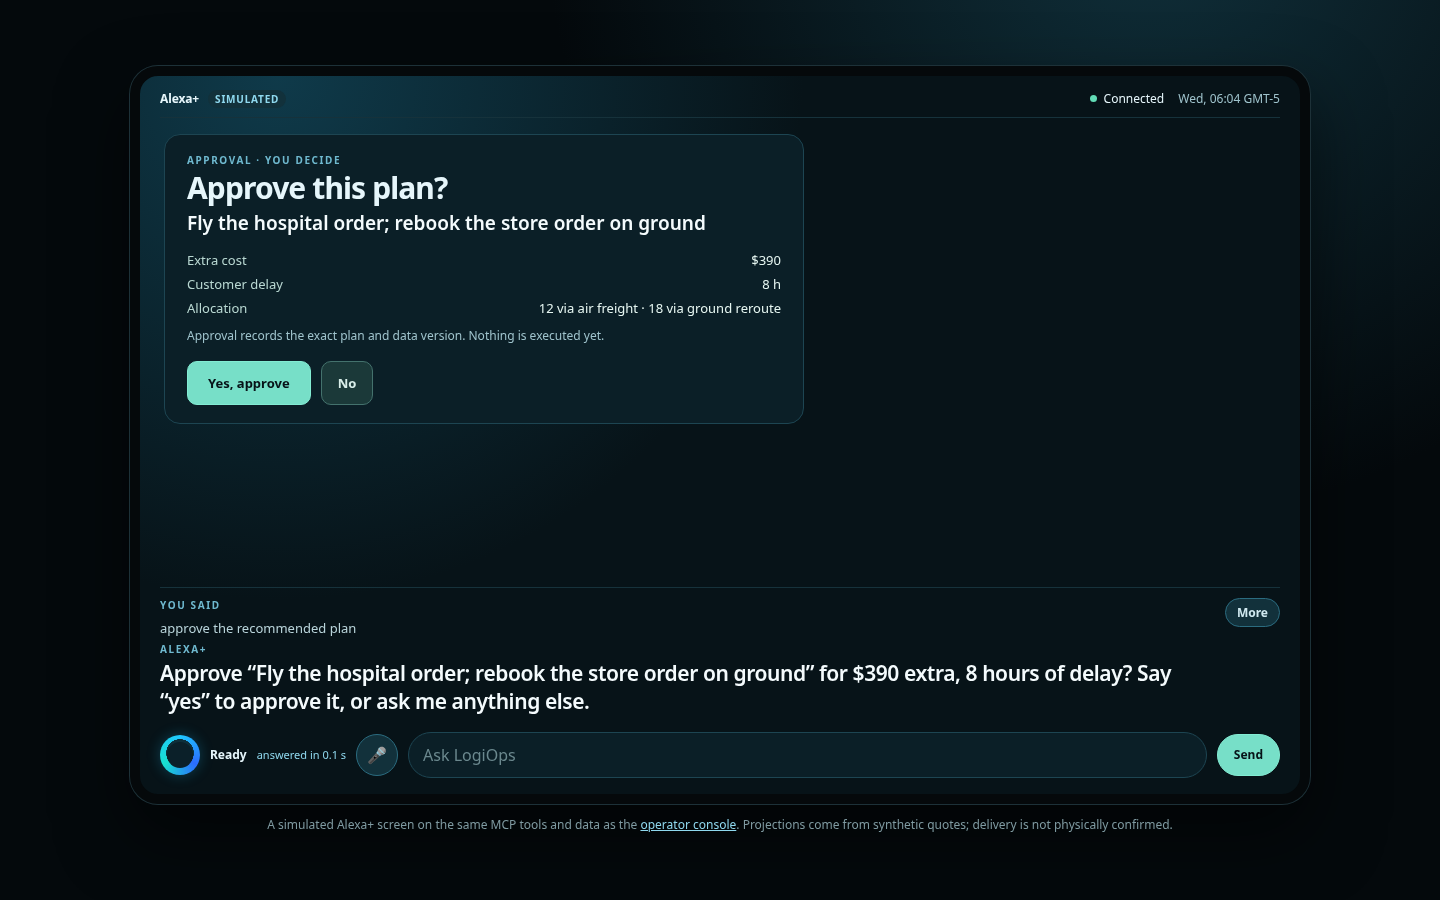
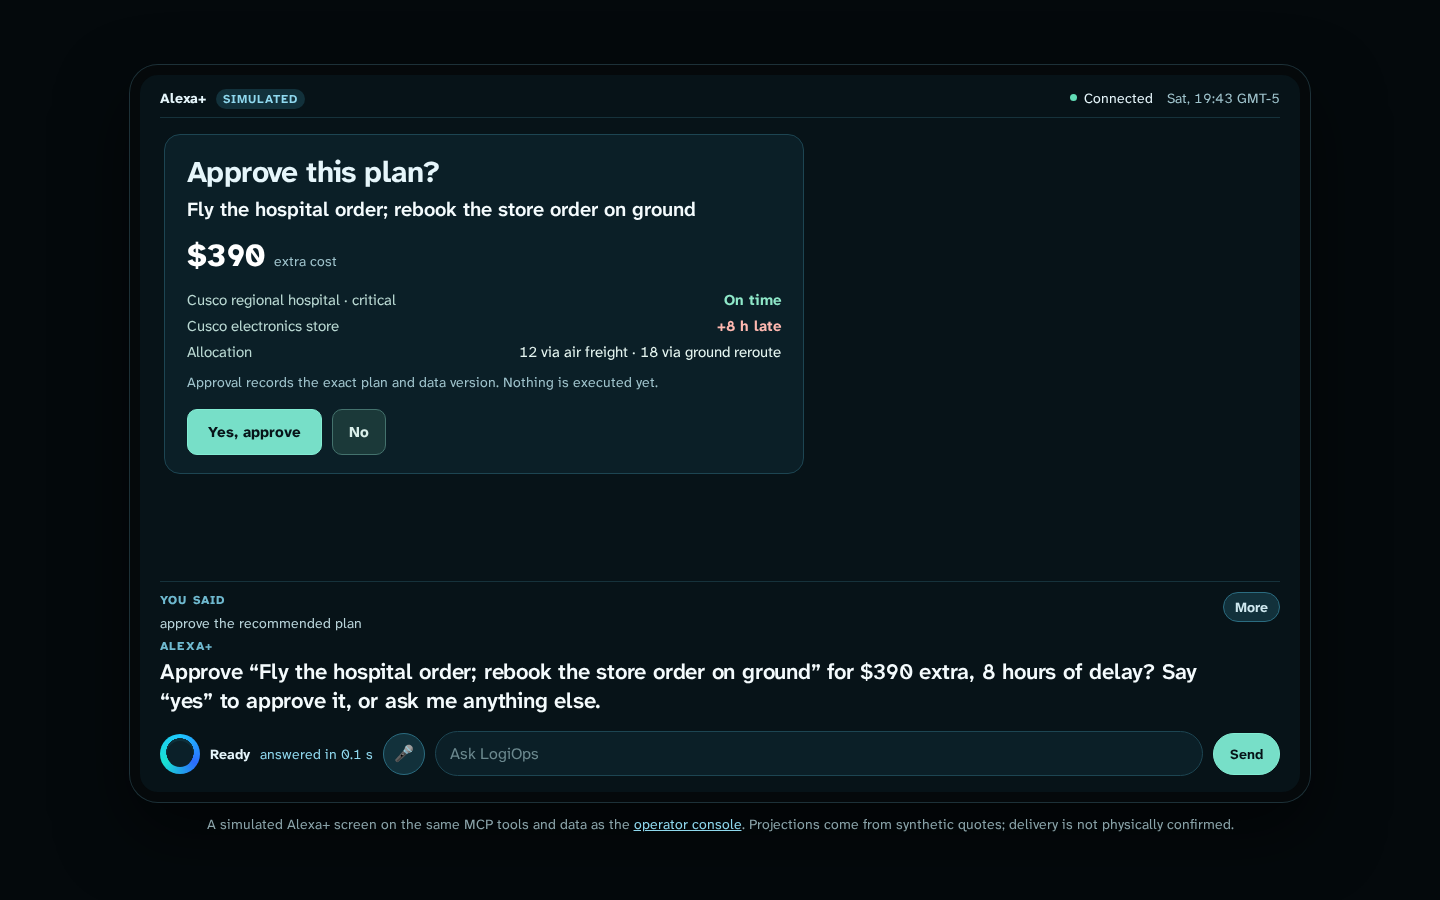
docs: refresh the screenshots after the device design pass
The README images now show the device after #70 to #73: the plans card
led by the pick, the approval with each order's outcome, the type scale
and the loaded font. The phone shot is taken first, on freshly reset
data, so it no longer shows an incident the desktop walk already executed
or a "welcome back" from that walk.

diff --git a/scripts/screenshots.py b/scripts/screenshots.py
@@ -80,6 +80,11 @@ def capture(base: str, out: Path) -> list[Path]:
 
     with sync_playwright() as playwright:
         browser = playwright.chromium.launch()
+        phone = browser.new_page(viewport=PHONE)
+        phone.request.post(f"{base}/demo/reset")
+        phone.goto(f"{base}/demo#SHIP-433")
+        phone.wait_for_function("document.querySelector('#connection').textContent === 'Connected'")
+        shot(phone, "device-phone")
         page = browser.new_page(viewport=DESKTOP)
         page.request.post(f"{base}/demo/reset")
         page.goto(f"{base}/demo")
@@ -104,10 +109,6 @@ def capture(base: str, out: Path) -> list[Path]:
         page.wait_for_function("document.querySelector('#connection').textContent === 'Connected'")
         page.wait_for_selector("#metrics:not([hidden])")
         shot(page, "console", clip={"x": 0, "y": 0, "width": DESKTOP["width"], "height": 900})
-        phone = browser.new_page(viewport=PHONE)
-        phone.goto(f"{base}/demo#SHIP-433")
-        phone.wait_for_function("document.querySelector('#connection').textContent === 'Connected'")
-        shot(phone, "device-phone")
         page.request.post(f"{base}/demo/reset")
         browser.close()
     return shots
